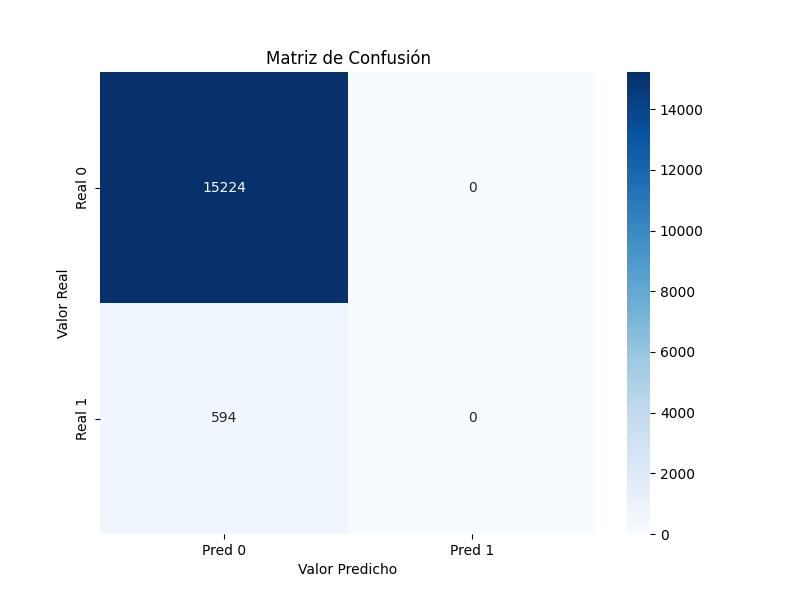
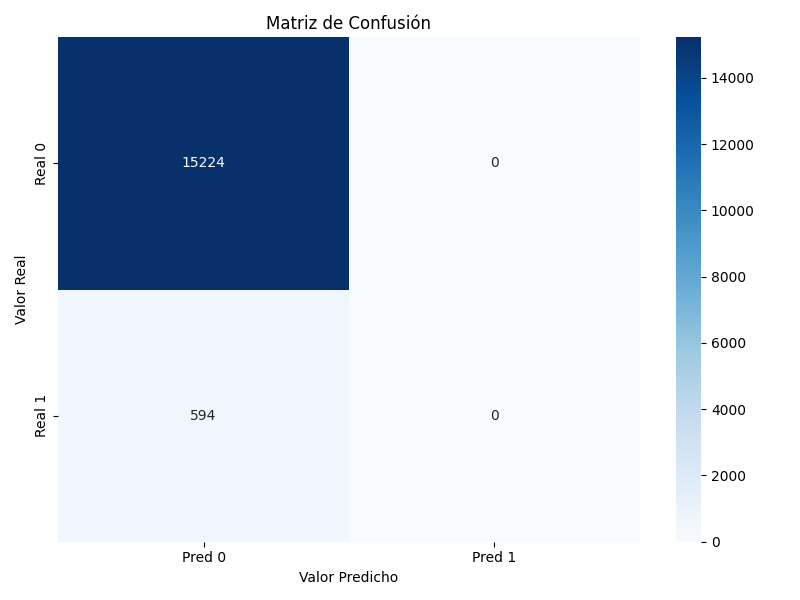
Integracion con MLFlow

diff --git a/src/evaluate.py b/src/evaluate.py
@@ -1,27 +1,30 @@
 import argparse
 import os
-import pandas as pd
-import joblib
 import json
+import joblib
+import pandas as pd
 import seaborn as sns
 import matplotlib.pyplot as plt
 from typing import Any, Dict
 from prefect import flow, task
 from sklearn.ensemble import RandomForestClassifier
 from sklearn.compose import ColumnTransformer
-from sklearn.metrics import (
-    accuracy_score,
-    precision_score,
-    recall_score,
-    f1_score,
-    roc_auc_score,
-    confusion_matrix
-)
+from sklearn.metrics import (accuracy_score, precision_score, recall_score, f1_score, roc_auc_score, confusion_matrix)
+import mlflow
 
+
+# ----------------------------- #
+#        CONFIGURACION          #
+# ----------------------------- #
 TARGET_COL = 'target'
 METRICS_FILE = 'metrics.json'
 CM_PLOT_FILE = 'confusion_matrix.png'
 FEAT_IMP_PLOT_FILE = 'feature_importance.png'
+
+
+# ----------------------------- #
+#             TASKS             #
+# ----------------------------- #
 
 @task
 def load_data(path: str) -> pd.DataFrame:
@@ -40,96 +43,129 @@ def separate_features_target(df: pd.DataFrame, target_col: str) -> tuple[pd.Data
 @task
 def make_predictions(model: RandomForestClassifier, X: pd.DataFrame) -> tuple:
     y_pred = model.predict(X)
-    y_proba = model.predict_proba(X)[:, 1] # Probabilidad de la clase '1'
+    y_proba = model.predict_proba(X)[:, 1] if hasattr(model, "predict_proba") else None
     return y_pred, y_proba
 
 @task
-def calculate_metrics(y_true: pd.Series, y_pred: pd.Series, y_proba: pd.Series) -> Dict[str, float]:
+def calculate_metrics(y_true: pd.Series, y_pred: pd.Series, y_proba: pd.Series | None) -> Dict[str, float]:
     metrics = {
-        'accuracy': accuracy_score(y_true, y_pred),
-        'precision': precision_score(y_true, y_pred),
-        'recall': recall_score(y_true, y_pred),
-        'f1_score': f1_score(y_true, y_pred),
-        'roc_auc': roc_auc_score(y_true, y_proba)
+        "accuracy": accuracy_score(y_true, y_pred),
+        "precision": precision_score(y_true, y_pred, zero_division=0),
+        "recall": recall_score(y_true, y_pred, zero_division=0),
+        "f1_score": f1_score(y_true, y_pred, zero_division=0),
     }
+    if y_proba is not None:
+        metrics["roc_auc"] = roc_auc_score(y_true, y_proba)
     return metrics
 
 @task(retries=3, retry_delay_seconds=5)
 def save_metrics_json(metrics: dict, path: str):
     os.makedirs(os.path.dirname(path), exist_ok=True)
-    with open(path, 'w') as f:
+    with open(path, "w") as f:
         json.dump(metrics, f, indent=4)
 
 @task
 def plot_confusion_matrix(y_true: pd.Series, y_pred: pd.Series, path: str):
     os.makedirs(os.path.dirname(path), exist_ok=True)
-    
     cm = confusion_matrix(y_true, y_pred)
     plt.figure(figsize=(8, 6))
-    sns.heatmap(cm, annot=True, fmt='d', cmap='Blues',
-                xticklabels=['Pred 0', 'Pred 1'],
-                yticklabels=['Real 0', 'Real 1'])
-    plt.title('Matriz de Confusión')
-    plt.ylabel('Valor Real')
-    plt.xlabel('Valor Predicho')
-    plt.savefig(path)
-    plt.close()
-
-@task
-def plot_feature_importance(model: RandomForestClassifier, preprocessor: ColumnTransformer, path: str, top_n: int = 20):
-    os.makedirs(os.path.dirname(path), exist_ok=True)
-
-    # Obtener nombres de features del preprocesador
-    feature_names = preprocessor.get_feature_names_out()
-    importances = model.feature_importances_
-    
-    feat_imp_series = pd.Series(importances, index=feature_names).sort_values(ascending=False)
-    
-    # Graficar solo las top_n features
-    top_features = feat_imp_series.head(top_n)
-    
-    plt.figure(figsize=(10, top_n / 3))
-    sns.barplot(x=top_features.values, y=top_features.index)
-    plt.title(f'Top {top_n} Features más Importantes')
-    plt.xlabel('Importancia')
-    plt.ylabel('Features')
+    sns.heatmap(
+        cm,
+        annot=True,
+        fmt="d",
+        cmap="Blues",
+        xticklabels=["Pred 0", "Pred 1"],
+        yticklabels=["Real 0", "Real 1"]
+    )
+    plt.title("Matriz de Confusion")
+    plt.ylabel("Valor Real")
+    plt.xlabel("Valor Predicho")
     plt.tight_layout()
     plt.savefig(path)
     plt.close()
 
+
+@task
+def plot_feature_importance(
+    model: RandomForestClassifier,
+    preprocessor: ColumnTransformer,
+    path: str,
+    top_n: int = 20
+):
+    os.makedirs(os.path.dirname(path), exist_ok=True)
+
+    feature_names = preprocessor.get_feature_names_out()
+    importances = model.feature_importances_
+
+    feat_imp_series = pd.Series(importances, index=feature_names).sort_values(ascending=False)
+    top_features = feat_imp_series.head(top_n)
+
+    plt.figure(figsize=(10, top_n / 3))
+    sns.barplot(x=top_features.values, y=top_features.index)
+    plt.title(f"Top {top_n} Features mas Importantes")
+    plt.xlabel("Importancia")
+    plt.ylabel("Features")
+    plt.tight_layout()
+    plt.savefig(path)
+    plt.close()
+
+# ----------------------------- #
+#             FLOW              #
+# ----------------------------- #
+
 @flow(name="Model Evaluation Pipeline")
 def evaluate_flow(args: argparse.Namespace):
-    # rutas
-    test_data_path = os.path.join(args.input_dir, "test.csv")
-    model_path = os.path.join(args.model_dir, "model.pkl")
-    preprocessor_path = os.path.join(args.model_dir, "preprocessor.pkl")
-    
-    metrics_json_path = os.path.join(args.output_dir, METRICS_FILE)
-    cm_plot_path = os.path.join(args.output_dir, CM_PLOT_FILE)
-    feat_imp_plot_path = os.path.join(args.output_dir, FEAT_IMP_PLOT_FILE)
+    # Configuracion MLflow
+    mlflow.set_tracking_uri(os.getenv("MLFLOW_TRACKING_URI", "http://localhost:5000"))
+    mlflow.set_experiment(os.getenv("MLFLOW_EXPERIMENT_NAME", "random_forest_experiment"))
 
-    # cargar datos y artefactos
-    df_test = load_data(test_data_path)
-    model = load_artifact(model_path)
-    preprocessor = load_artifact(preprocessor_path) # Necesario para feature importance
+    with mlflow.start_run(run_name="evaluate_random_forest"):
+        # Rutas
+        test_data_path = os.path.join(args.input_dir, "test.csv")
+        model_path = os.path.join(args.model_dir, "model.pkl")
+        preprocessor_path = os.path.join(args.model_dir, "preprocessor.pkl")
 
-    # preparar datos
-    X_test, y_test = separate_features_target(df_test, TARGET_COL)
-    
-    # evaluar
-    y_pred, y_proba = make_predictions(model, X_test)
-    metrics_dict = calculate_metrics(y_test, y_pred, y_proba)
-    
-    # guardar metricas y graficos
-    save_metrics_json(metrics_dict, metrics_json_path)
-    plot_confusion_matrix(y_test, y_pred, cm_plot_path)
-    plot_feature_importance(model, preprocessor, feat_imp_plot_path)
+        metrics_json_path = os.path.join(args.output_dir, METRICS_FILE)
+        cm_plot_path = os.path.join(args.output_dir, CM_PLOT_FILE)
+        feat_imp_plot_path = os.path.join(args.output_dir, FEAT_IMP_PLOT_FILE)
+
+        # Cargar artefactos y datos
+        df_test = load_data(test_data_path)
+        model = load_artifact(model_path)
+        preprocessor = load_artifact(preprocessor_path)
+
+        # Separar X e y
+        X_test, y_test = separate_features_target(df_test, TARGET_COL)
+
+        # Realizar predicciones
+        y_pred, y_proba = make_predictions(model, X_test)
+
+        # Calcular metricas
+        metrics_dict = calculate_metrics(y_test, y_pred, y_proba)
+
+        # Guardar metricas localmente
+        save_metrics_json(metrics_dict, metrics_json_path)
+
+        # Registrar metricas en MLflow
+        mlflow.log_metrics(metrics_dict) # type: ignore
+
+        # Graficar y registrar artefactos visuales
+        plot_confusion_matrix(y_test, y_pred, cm_plot_path)
+        plot_feature_importance(model, preprocessor, feat_imp_plot_path)
+
+        mlflow.log_artifact(metrics_json_path, artifact_path="artifacts")
+        mlflow.log_artifact(cm_plot_path, artifact_path="artifacts")
+        mlflow.log_artifact(feat_imp_plot_path, artifact_path="artifacts")
+
+# ----------------------------- #
+#          MAIN ENTRY           #
+# ----------------------------- #
 
 if __name__ == "__main__":
-    parser = argparse.ArgumentParser(description="Evalúa un modelo RandomForestClassifier entrenado.")
-    parser.add_argument("input_dir", type=str)
-    parser.add_argument("model_dir", type=str)
-    parser.add_argument("output_dir", type=str)
+    parser = argparse.ArgumentParser(description="Evalua un modelo RandomForestClassifier entrenado.")
+    parser.add_argument("input_dir", type=str, help="Directorio con test.csv")
+    parser.add_argument("model_dir", type=str, help="Directorio con el modelo entrenado y preprocesador")
+    parser.add_argument("output_dir", type=str, help="Directorio donde guardar las metricas y plots")
 
     args = parser.parse_args()
     evaluate_flow(args)

diff --git a/src/train.py b/src/train.py
@@ -5,9 +5,19 @@ import joblib
 from typing import Any
 from prefect import flow, task
 from sklearn.ensemble import RandomForestClassifier
+import mlflow
+import mlflow.sklearn
+from mlflow.models import infer_signature
 
+# Constantes globales
 TARGET_COL = 'target'
 MODEL_NAME = 'model.pkl'
+REGISTERED_MODEL_NAME = 'cu_venta_random_forest'
+
+
+# ----------------------------- #
+#            TASKS              #
+# ----------------------------- #
 
 @task
 def load_data(path: str) -> pd.DataFrame:
@@ -19,44 +29,80 @@ def separate_features_target(df: pd.DataFrame, target_col: str) -> tuple[pd.Data
     y = df[target_col]
     return X, y
 
+
 @task
-def train_model(X_train: pd.DataFrame, y_train: pd.Series, args: argparse.Namespace) -> RandomForestClassifier:    
+def train_model(X_train: pd.DataFrame, y_train: pd.Series, args: argparse.Namespace) -> RandomForestClassifier:
     model = RandomForestClassifier(
         n_estimators=args.n_estimators,
         max_depth=args.max_depth,
         random_state=args.seed,
-        n_jobs=-1  # Usar todos los procesadores
+        n_jobs=-1  # Usa todos los nucleos disponibles
     )
-    
-    model.fit(X_train, y_train)    
+    model.fit(X_train, y_train)
     return model
+
 
 def save_model(model: Any, path: str):
     os.makedirs(os.path.dirname(path), exist_ok=True)
     joblib.dump(model, path)
 
-@flow(name="Model Training Pipeline")
-def train_flow(args: argparse.Namespace):
-    # Rutas
-    train_path = os.path.join(args.input_dir, "train.csv")
-    model_path = os.path.join(args.model_dir, MODEL_NAME)
 
-    # Pipeline
-    df_train = load_data(train_path)
-    X_train, y_train = separate_features_target(df_train, TARGET_COL)
-    
-    model = train_model(X_train, y_train, args)
-    save_model(model, model_path)
+# ----------------------------- #
+#            FLOW               #
+# ----------------------------- #
+
+@flow(name="Model Training Pipeline")
+def train_flow(args: argparse.Namespace):    
+    # Configuracion de MLflow
+    mlflow.set_tracking_uri(os.getenv("MLFLOW_TRACKING_URI", "http://localhost:5000"))
+    mlflow.set_experiment(os.getenv("MLFLOW_EXPERIMENT_NAME", "random_forest_experiment"))
+
+    with mlflow.start_run(run_name="train_random_forest"):
+        # Registro de hiperparametros
+        mlflow.log_params({
+            "n_estimators": args.n_estimators,
+            "max_depth": args.max_depth,
+            "seed": args.seed
+        })
+
+        # Rutas
+        train_path = os.path.join(args.input_dir, "train.csv")
+        model_path = os.path.join(args.model_dir, MODEL_NAME)
+
+        # Ejecucion del pipeline
+        df_train = load_data(train_path)
+        X_train, y_train = separate_features_target(df_train, TARGET_COL)
+        model = train_model(X_train, y_train, args)
+
+        # Guardar modelo localmente
+        save_model(model, model_path)
+
+        # Log en MLflow con firma y ejemplo
+        signature = infer_signature(X_train, model.predict(X_train))
+        mlflow.sklearn.log_model( # type: ignore
+            sk_model=model,
+            name="model",
+            input_example=X_train.head(1),
+            signature=signature,
+            registered_model_name=REGISTERED_MODEL_NAME
+        )
+
+        # Registrar el artefacto del modelo
+        mlflow.log_artifact(model_path, artifact_path="artifacts")
+
+# ----------------------------- #
+#          MAIN ENTRY           #
+# ----------------------------- #
 
 if __name__ == "__main__":
-    parser = argparse.ArgumentParser(description="Entrena un modelo RandomForestClassifier.")    
-    parser.add_argument("input_dir", type=str)
-    parser.add_argument("model_dir", type=str)
-    
-    # Hiperparámetros (params.yaml)
+    parser = argparse.ArgumentParser(description="Entrena un modelo RandomForestClassifier.")
+    parser.add_argument("input_dir", type=str, help="Directorio de entrada con train.csv")
+    parser.add_argument("model_dir", type=str, help="Directorio donde guardar el modelo entrenado")
+
+    # Hiperparametros
     parser.add_argument("--n-estimators", type=int, default=100, help="Numero de arboles en el bosque")
     parser.add_argument("--max-depth", type=int, default=10, help="Profundidad maxima de los arboles")
-    parser.add_argument("--seed", type=int, default=42, help="Semilla aleatoria para reproducibilidad")
+    parser.add_argument("--seed", type=int, default=42, help="Semilla para reproducibilidad")
 
     args = parser.parse_args()
     train_flow(args)

diff --git a/src/featurize.py b/src/featurize.py
@@ -12,7 +12,7 @@ from prefect import flow, task
 
 COLS_CAT_OTHERS = ['grp_camptot06m', 'region', 'ubigeo_buro', 'grp_riesgociiu']
 COLS_CAT_GRUPO0 = ['grp_campecs06m']
-TARGET_COL = 'target' # <--- AÑADIR ESTO
+TARGET_COL = 'target'
 
 @task
 def load_data(path: str) -> pd.DataFrame:
